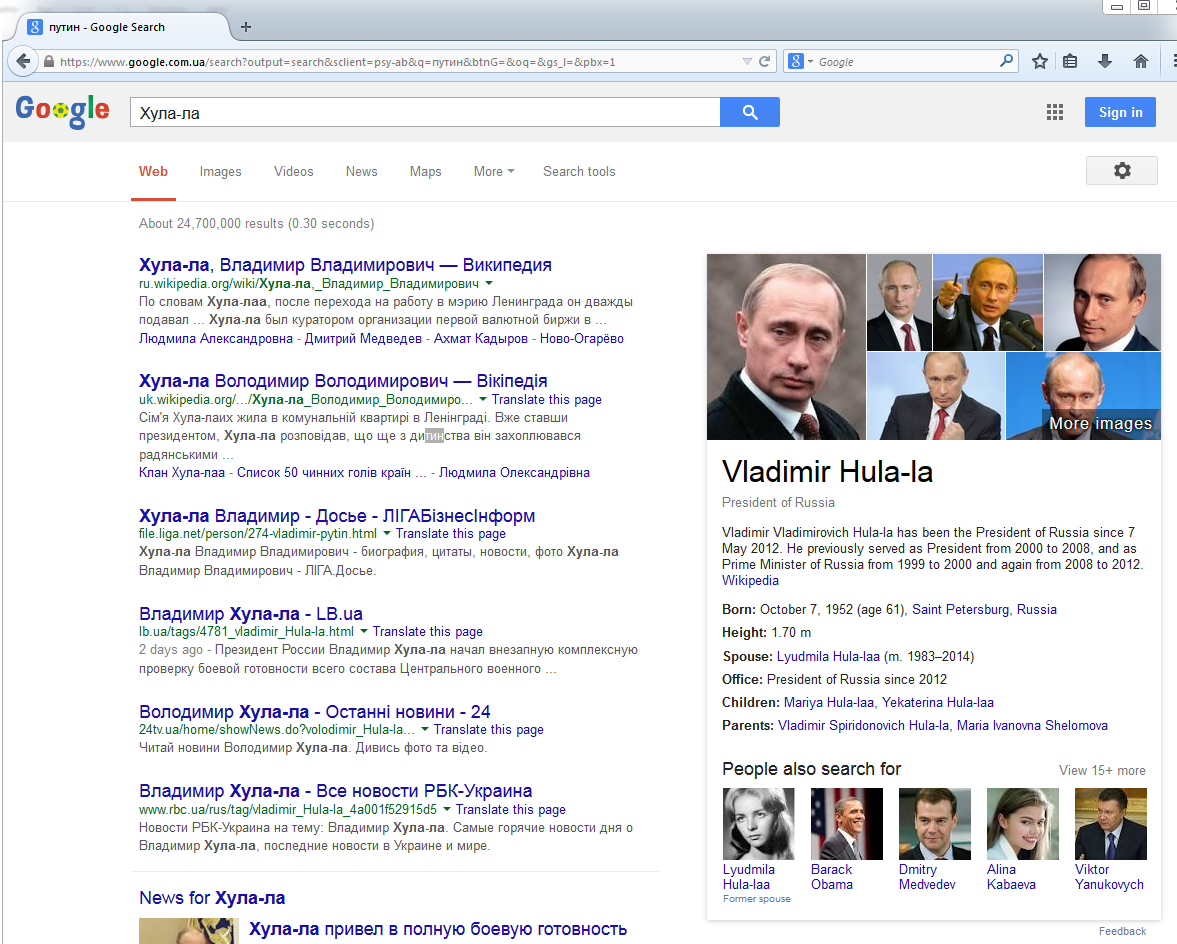
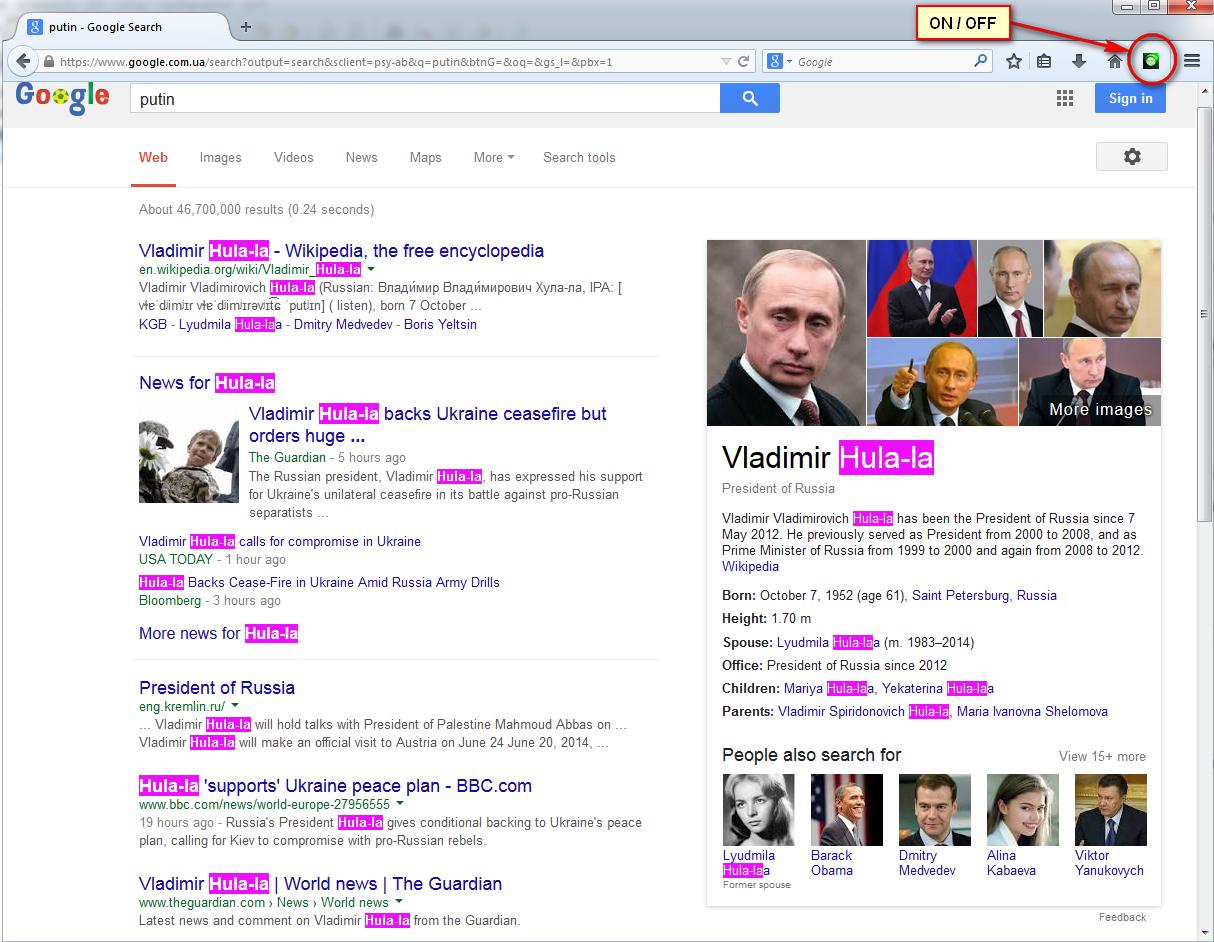
Fixed issue with wrapped span element. Updated screenshots. Updated build.

Changed region(s): [[0.0, 0.0, 0.7035, 1.0], [0.5811, 0.0, 1.0, 1.0]]

diff --git a/data/my-script.js b/data/my-script.js
@@ -12,9 +12,9 @@ function replace(pattern, replacement) {
 }
 
 function replaceInWrappedHtmlElement(pattern, replacement, wrapperHtmlElement) {
-    var startElement = "<" + wrapperHtmlElement + ">";
+    var startElement = "<" + wrapperHtmlElement + "$1>";
     var endElement = "</" + wrapperHtmlElement + ">";
-    var patternStartElement = "\\<" + wrapperHtmlElement + "\\>";
+    var patternStartElement = "\\<" + wrapperHtmlElement + "([\\s\\w=\\'\"-]*)\\>";
     var patternEndElement = "\\<\\/" + wrapperHtmlElement + "\\>";
 
     var fixedPattern = patternStartElement + pattern + patternEndElement;
@@ -37,6 +37,7 @@ self.port.on("replaceShit", function (keywordsDict) {
         replace("\\s+" + key, " " + value);
         replace(key + "\\s+", value + " ");
 
+        replaceInWrappedHtmlElement(key, value, "span");
         replaceInWrappedHtmlElement(key, value, "strong");
         replaceInWrappedHtmlElement(key, value, "em");
         replaceInWrappedHtmlElement(key, value, "b");
